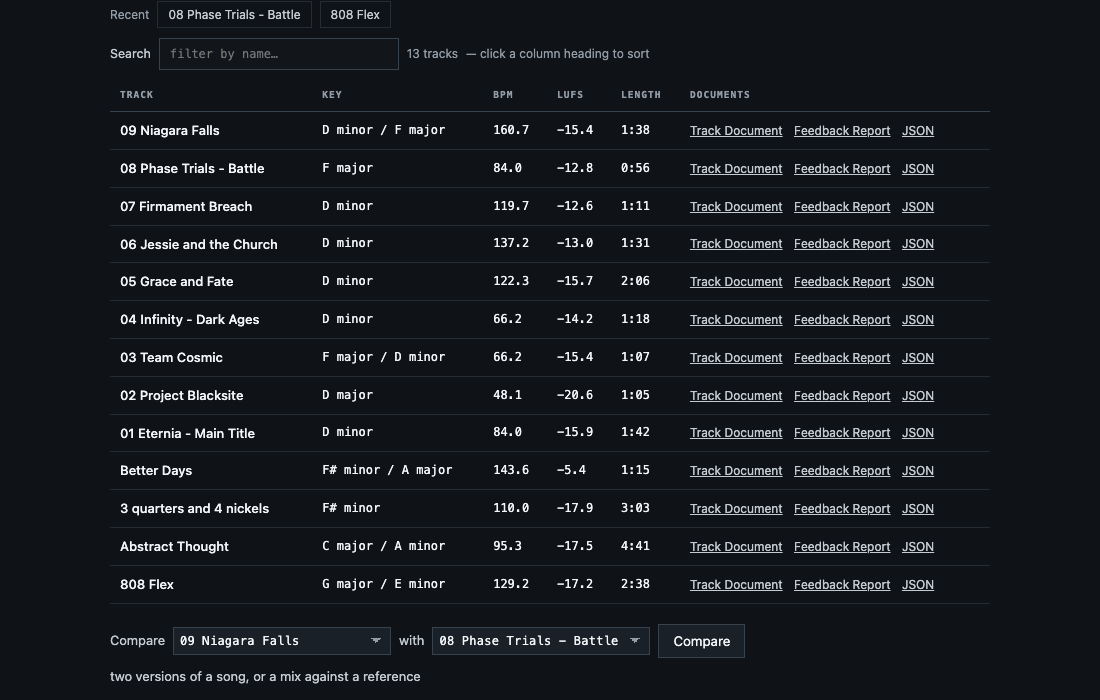
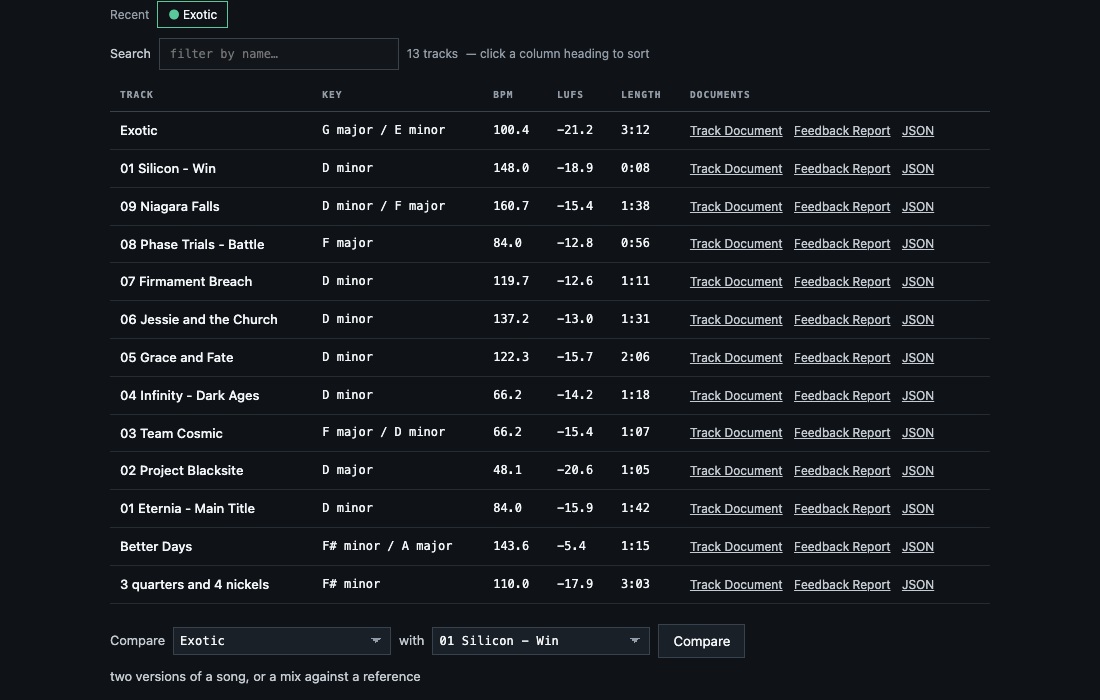
The tracks in the screenshots are songs, not Logic patches
808 Flex and Abstract Thought are the names of the Logic instruments those
files started from, not titles Erik would put in front of anyone — and I put
both on the front page. Checking the rest against Logic's own content found the
same for Exotic and UFO, which is the check that should have run first: the
question is not whether a name looks personal, it is whether it is his.

Exotic stays, at Erik's call, and its analysis carries no transcribed lyrics,
which was his condition. The workspace is Exotic now — a better shot besides,
because its findings include a mono-compatibility check with the measurement
under it. The library is thirteen tracks with no patch name among them: the
nine Eternia soundtrack cues, a Phase Trials sting, and three of his.

The share card follows the workspace it shows, as it must.

diff --git a/tools/og-card.html b/tools/og-card.html
@@ -43,8 +43,8 @@
     <p class="tagline">Your music, translated into words.</p>
     <div class="rule"></div>
     <div class="metrics">
-      <div class="metric"><div class="value">&minus;17.2</div><div class="label">LUFS · MEASURED</div></div>
-      <div class="metric"><div class="value">129.2</div><div class="label">BPM · DETECTED</div></div>
+      <div class="metric"><div class="value">&minus;21.2</div><div class="label">LUFS · MEASURED</div></div>
+      <div class="metric"><div class="value">100.4</div><div class="label">BPM · DETECTED</div></div>
       <div class="metric key"><div class="value">G major</div><div class="label">KEY · ESTIMATED</div></div>
     </div>
     <p class="foot">Local audio analysis for macOS · <b>$50 once</b></p>
